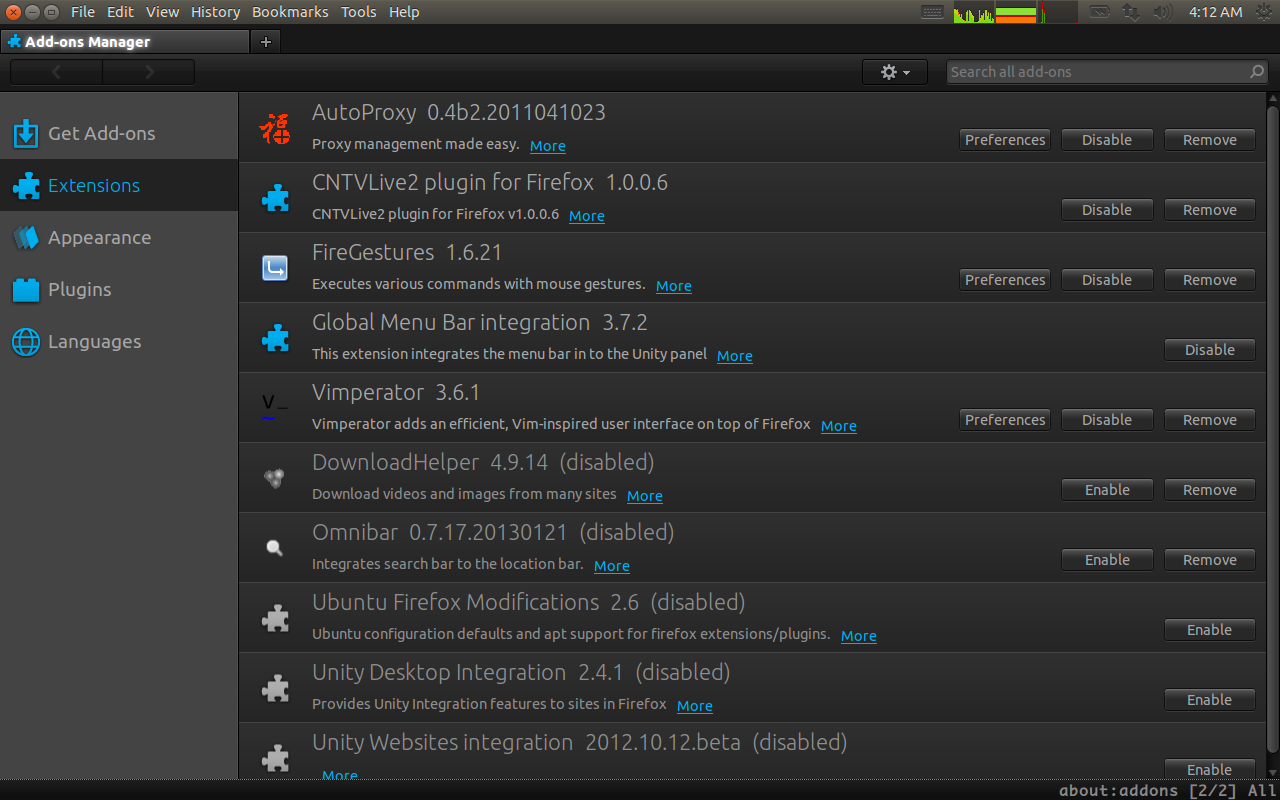
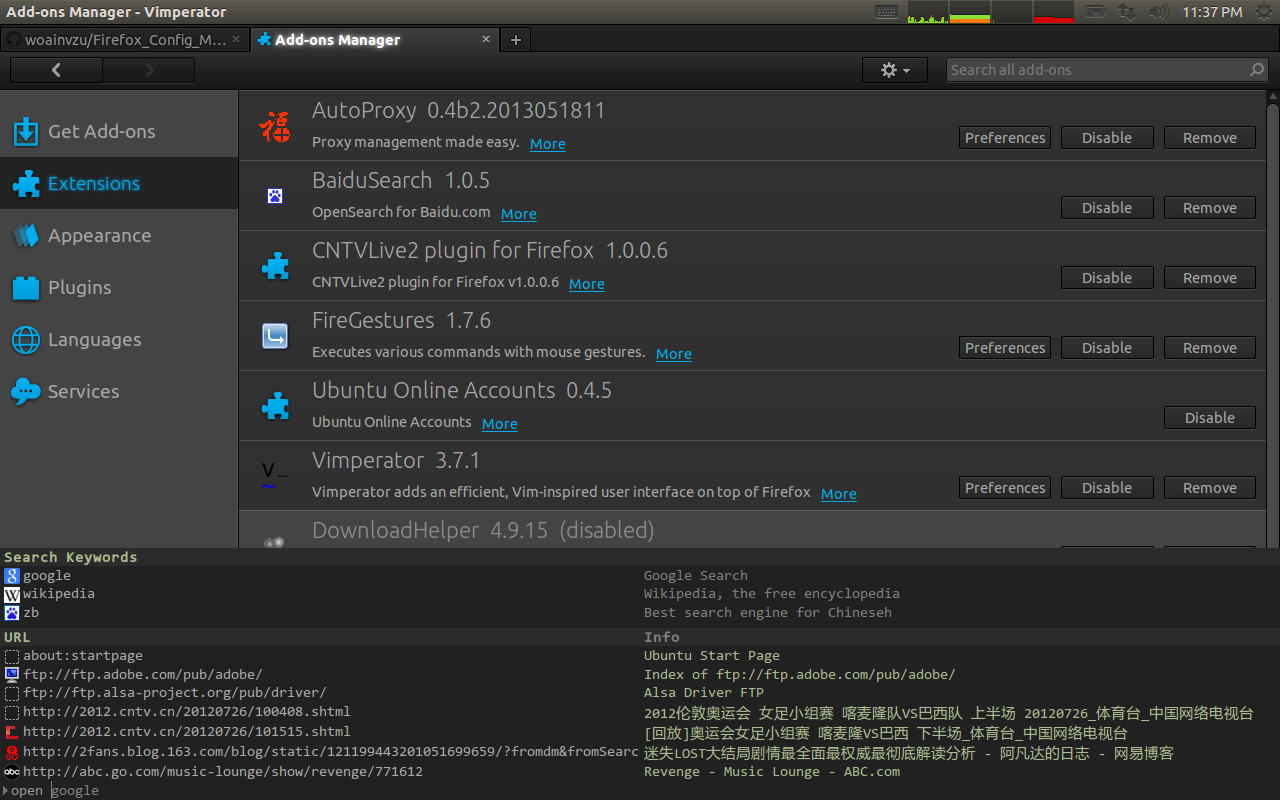
Update the firefox_addons.png and Readme

diff --git a/README.md b/README.md
@@ -1,13 +1,28 @@
-Vimperator_Marslo
+Firefox Configuration for Marslo
 =================
 
-The configuration of vimperator (plugin of firefox)
+The configuration about vimperator and other plugins
 
 ##Usage
-Copy .vimperatorrc to $HOME
+### For Windows:
+- Copy _vimperatorrc_win to %HOMEPATH%. 
+-- WIN7: %HOMEPATH% would be C:\Users\<UserName> 
+-- XP:%HOMEPATH% would be C:\Document and Settings\<UserName>
+### For Linux
+- Copy .vimperatorrc to $HOME
 
 ##Apperance
 FT DeepDark 5.6
 
+## Plugins:
+- AutoProxy
+- CNTVLive2 plugin for Firefox
+- FireGestures
+- Vimperator
+- BaiduSearch
+
 ##Screenshot
 ![My_Firefox_Addons](https://github.com/woainvzu/Firefox_Config_Marslo/blob/master/firefox_addons.png?raw=true)
+
+## Flashplayer:
+Flashplugin-installer could be downloaded from: http://archive.canonical.com/pool/partner/a/adobe-flashplugin/
